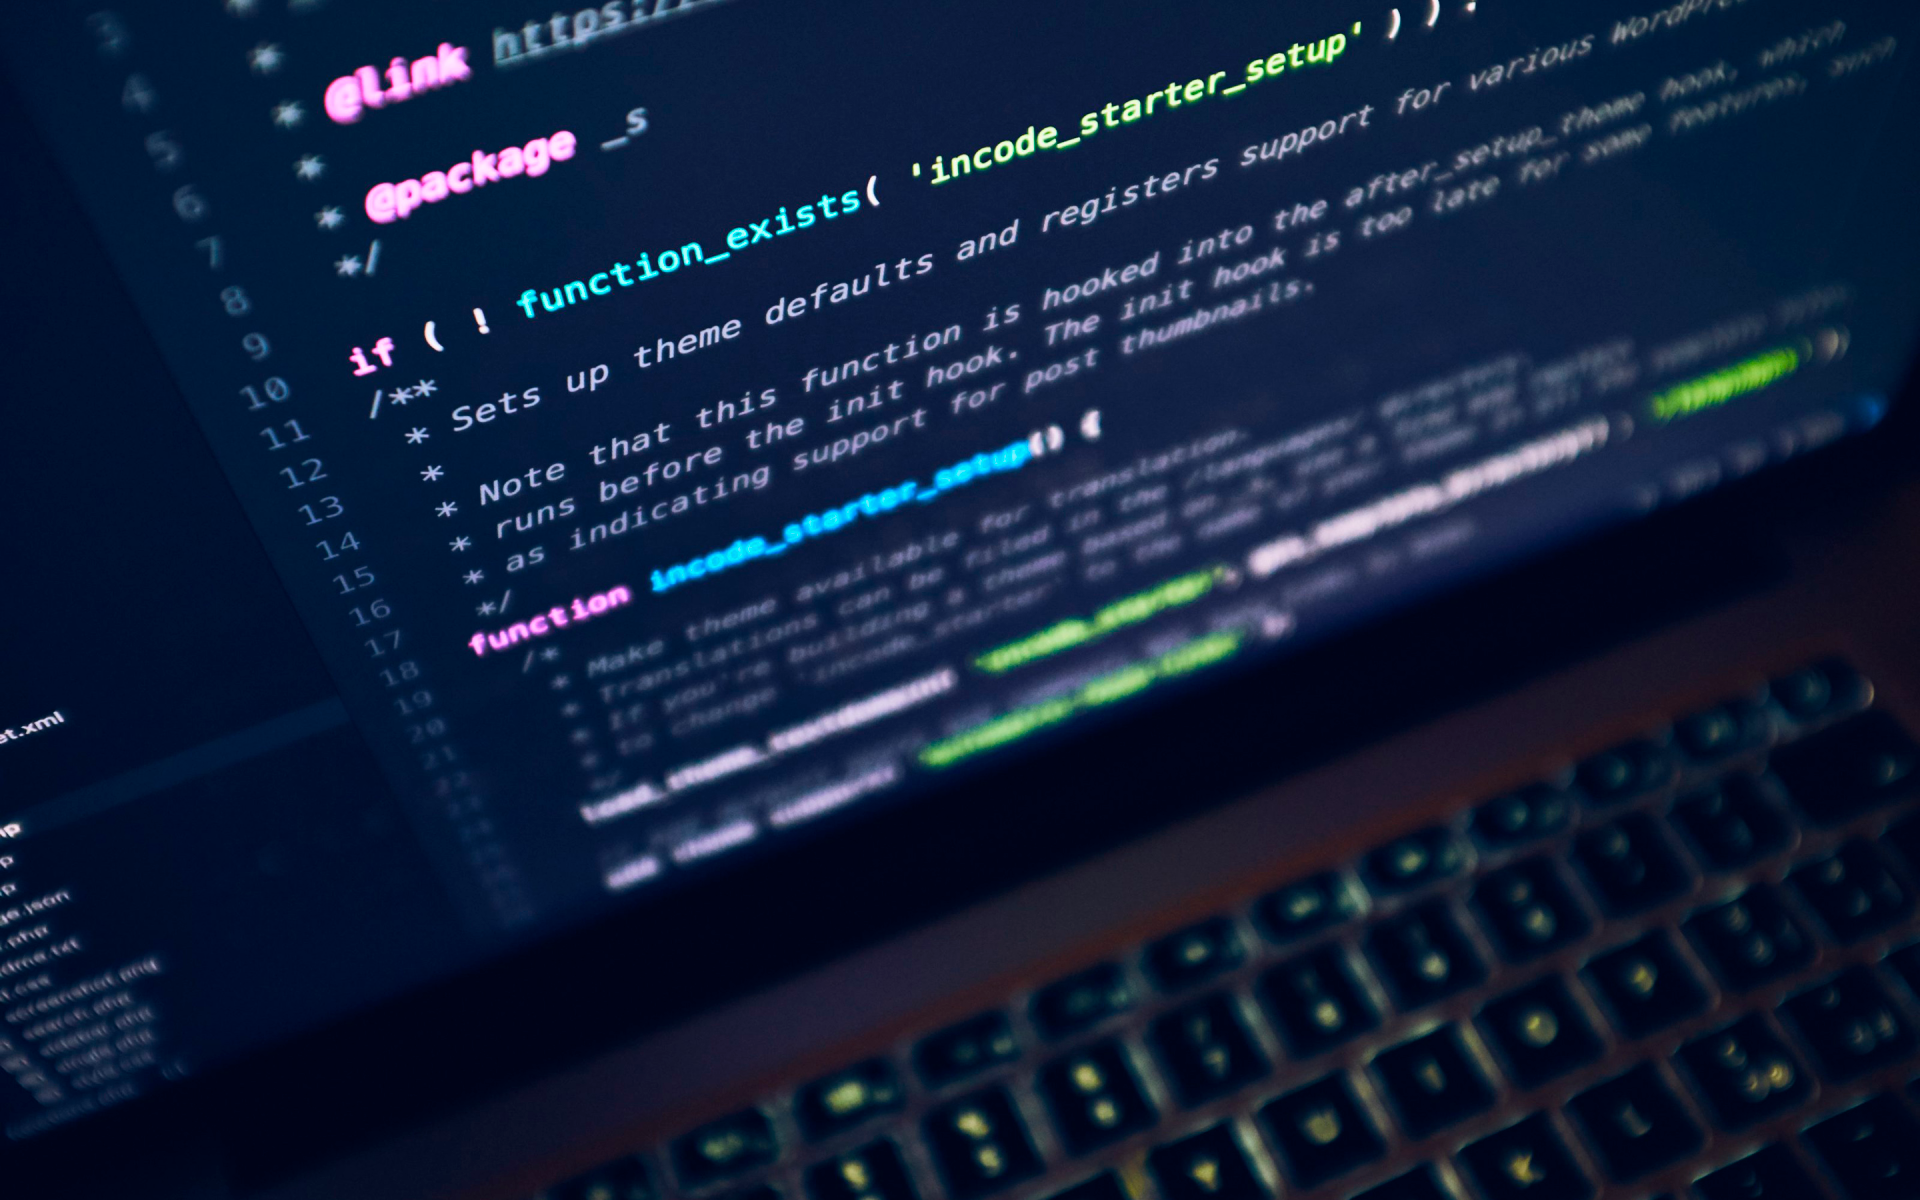
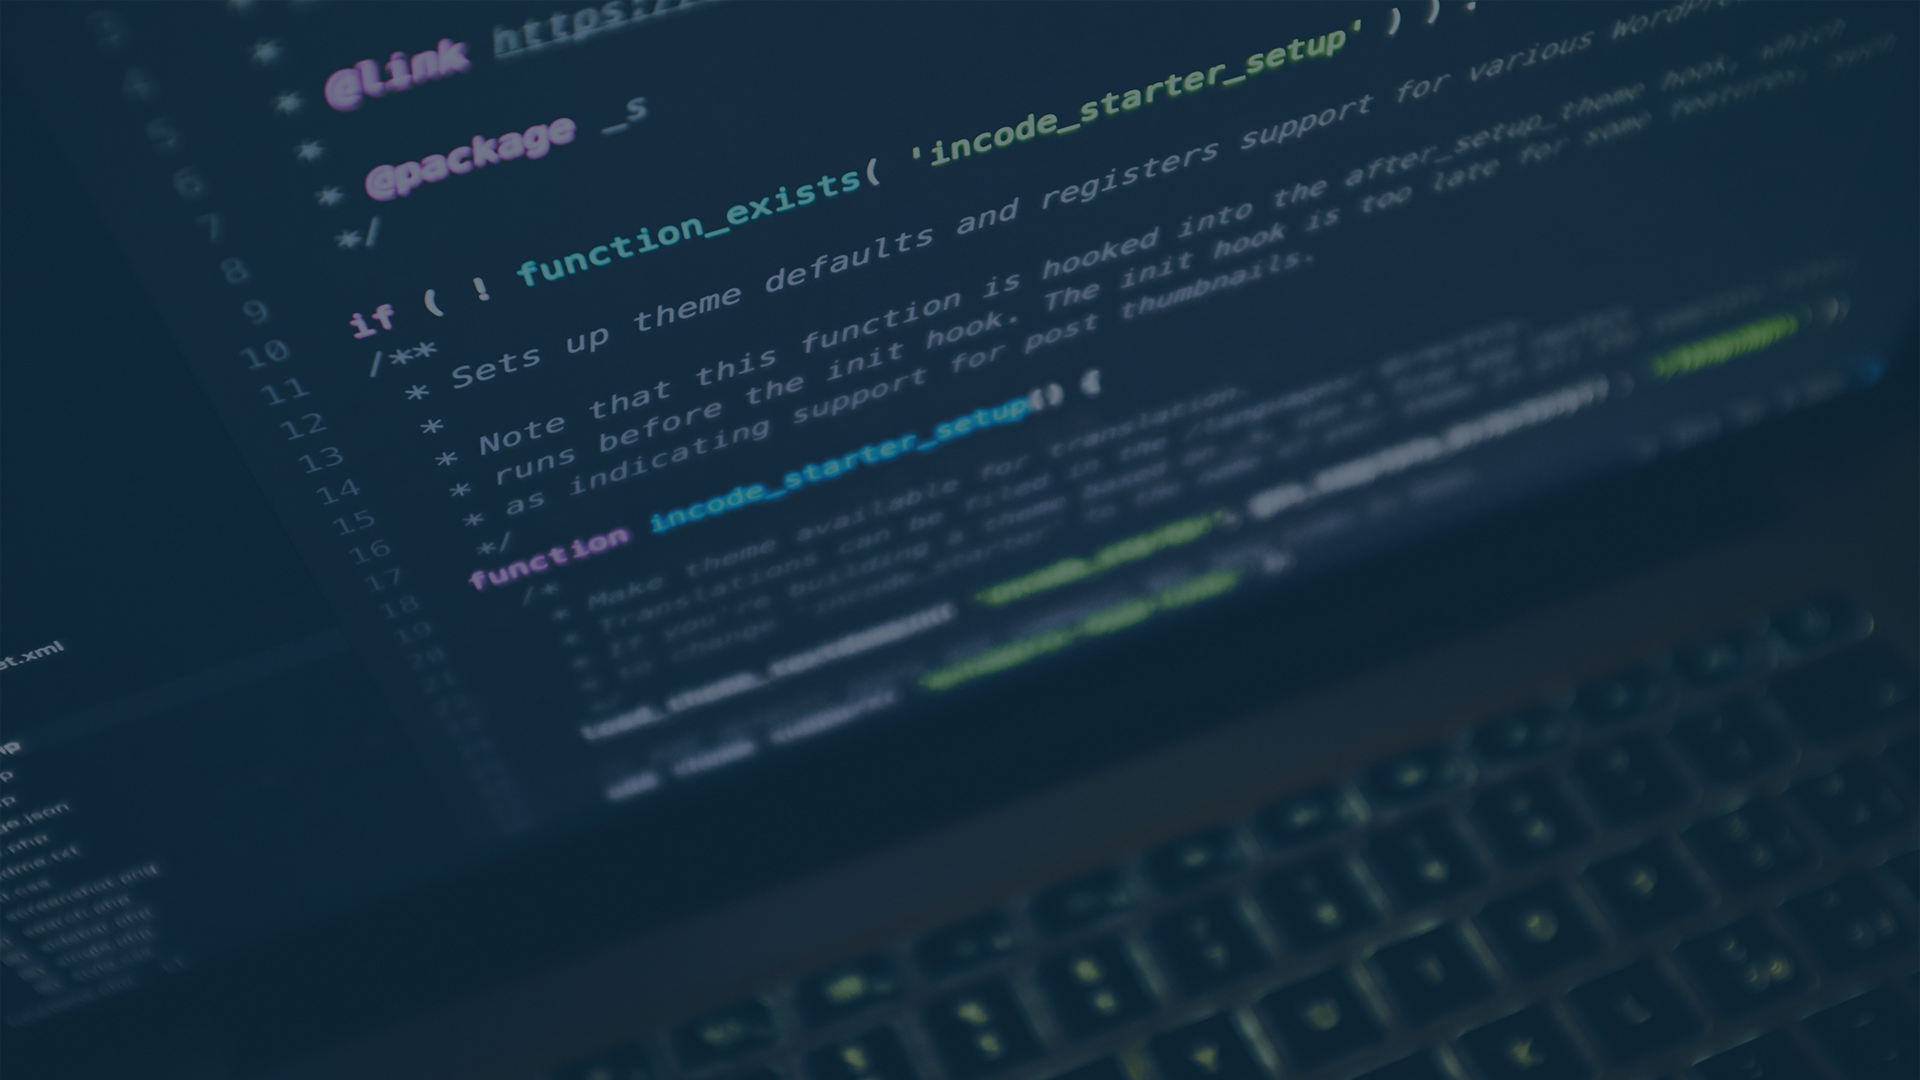
1.0.6

diff --git a/css/style.min.css b/css/style.min.css
@@ -1,1 +1,1 @@
-@font-face{font-family:Montserrat-ExtraBold;src:url(../fonts/Montserrat-ExtraBold.ttf) format('truetype')}@font-face{font-family:Montserrat-Black;src:url(../fonts/Montserrat-Black.ttf) format('truetype')}/*! normalize.css v8.0.1 | MIT License | github.com/necolas/normalize.css */html{line-height:1.15;-webkit-text-size-adjust:100%}body{margin:0}main{display:block}h1{font-size:2em;margin:.67em 0}hr{box-sizing:content-box;height:0;overflow:visible}pre{font-family:monospace,monospace;font-size:1em}a{background-color:transparent}abbr[title]{border-bottom:none;text-decoration:underline;text-decoration:underline dotted}b,strong{font-weight:bolder}code,kbd,samp{font-family:monospace,monospace;font-size:1em}small{font-size:80%}sub,sup{font-size:75%;line-height:0;position:relative;vertical-align:baseline}sub{bottom:-.25em}sup{top:-.5em}img{border-style:none}button,input,optgroup,select,textarea{font-family:inherit;font-size:100%;line-height:1.15;margin:0}button,input{overflow:visible}button,select{text-transform:none}[type=button],[type=reset],[type=submit],button{-webkit-appearance:button}[type=button]::-moz-focus-inner,[type=reset]::-moz-focus-inner,[type=submit]::-moz-focus-inner,button::-moz-focus-inner{border-style:none;padding:0}[type=button]:-moz-focusring,[type=reset]:-moz-focusring,[type=submit]:-moz-focusring,button:-moz-focusring{outline:1px dotted ButtonText}fieldset{padding:.35em .75em .625em}legend{box-sizing:border-box;color:inherit;display:table;max-width:100%;padding:0;white-space:normal}progress{vertical-align:baseline}textarea{overflow:auto}[type=checkbox],[type=radio]{box-sizing:border-box;padding:0}[type=number]::-webkit-inner-spin-button,[type=number]::-webkit-outer-spin-button{height:auto}[type=search]{-webkit-appearance:textfield;outline-offset:-2px}[type=search]::-webkit-search-decoration{-webkit-appearance:none}::-webkit-file-upload-button{-webkit-appearance:button;font:inherit}details{display:block}summary{display:list-item}template{display:none}[hidden]{display:none}*{margin:0;padding:0;box-sizing:border-box}.logo img{max-width:600px;max-height:400px;position:absolute;top:45px;left:25px}#top{display:flex;background-color:#152b3d;background-image:url(../img/programming.png?2006130242);background-repeat:no-repeat;-webkit-background-size:cover;background-size:cover;width:1920px;height:1200px;opacity:.9}.nav{display:flex;flex-direction:row;justify-content:space-between}.link{font-family:Montserrat-ExtraBold,serif;font-size:2.3em;text-decoration:none;position:relative;right:-390px;bottom:-10px;margin:25px;color:#fff}#main_link{text-decoration:underline;text-decoration-color:#924048}.text{position:absolute;left:40px;top:478px}.text img{max-width:600px;max-height:400px}.why-we{position:absolute;top:1040px}.why-we button{color:#e1f1f0;background-color:#a0a9ae;border-radius:40px;position:relative;right:-550px;padding:15px 40px;font-family:Montserrat-Black,sans-serif;font-size:1.9em}#personal__qualities{background-color:#152b3d;background-image:url(../img/business.png?2006130242);background-repeat:no-repeat;-webkit-background-size:cover;background-size:cover;width:1920px;height:1200px;opacity:.9;display:flex;flex-direction:row}.fast{flex:1;justify-content:space-between;position:absolute;left:50px;top:1330px}.exactly{flex:1;justify-content:space-between;position:absolute;left:950px;top:1330px}.exactly h2,.fast h2{color:#5c7079;font-family:Montserrat-ExtraBold,sans-serif;font-size:1.8em}.fast h2:before{content:url(../img/paketa.png?2006130242)}.exactly h2:before{content:url(../img/icons8.png)}.exactly p,.fast p{color:#fff;line-height:40px;font-family:Montserrat-ExtraBold,sans-serif;font-size:1.6em}.flex{display:flex;flex-direction:row}.cheap{flex:1;justify-content:space-between;position:absolute;left:50px;top:1850px}.cheap:before{content:url(../img/cheap.png)}.adaptive h2,.cheap h2{color:#5c7079;font-family:Montserrat-ExtraBold,sans-serif;font-size:1.8em}.adaptive p,.cheap p{color:#fff;line-height:40px;font-family:Montserrat-ExtraBold,sans-serif;font-size:1.6em}.adaptive{flex:1;justify-content:space-between;position:absolute;left:950px;top:1850px}.adaptive:before{content:url(../img/icons8-смартфон.png)}.order{position:absolute;top:2257px;left:45px}.order button{color:#e1f1f0;background-color:#a0a9ae;border-radius:40px;position:relative;right:-550px;padding:10px 35px;font-family:Montserrat-Black,sans-serif;font-size:1.9em}.top{display:none;text-decoration:none;position:fixed;bottom:20px;left:5px;z-index:99;border:none;outline:0;padding:15px 40px;border-radius:10px}@media (min-width:315px) and (max-width:1030px){.link{position:relative;right:-15px;bottom:-55px;font-size:1.4em}.to{position:relative;left:-320px;bottom:-105px;font-size:1.4em}.text img{position:relative;top:-235px;width:300px}.why-we button{position:relative;top:-630px;right:-15px}.cheap h2,.cheap p,.fast h2,.fast p{font-family:Montserrat-Black,sans-serif;font-size:1.2em}.adaptive h2,.adaptive p,.exactly h2,.exactly p{font-family:Montserrat-Black,sans-serif;font-size:1.2em}.exactly{position:absolute;left:420px;bottom:-56px}.adaptive{position:absolute;left:530px;bottom:-56px}.order{position:absolute;left:-540px}}
+@font-face{font-family:Montserrat-ExtraBold;src:url(../fonts/Montserrat-ExtraBold.ttf) format('truetype')}@font-face{font-family:Montserrat-Black;src:url(../fonts/Montserrat-Black.ttf) format('truetype')}/*! normalize.css v8.0.1 | MIT License | github.com/necolas/normalize.css */html{line-height:1.15;-webkit-text-size-adjust:100%}body{margin:0}main{display:block}h1{font-size:2em;margin:.67em 0}hr{box-sizing:content-box;height:0;overflow:visible}pre{font-family:monospace,monospace;font-size:1em}a{background-color:transparent}abbr[title]{border-bottom:none;text-decoration:underline;text-decoration:underline dotted}b,strong{font-weight:bolder}code,kbd,samp{font-family:monospace,monospace;font-size:1em}small{font-size:80%}sub,sup{font-size:75%;line-height:0;position:relative;vertical-align:baseline}sub{bottom:-.25em}sup{top:-.5em}img{border-style:none}button,input,optgroup,select,textarea{font-family:inherit;font-size:100%;line-height:1.15;margin:0}button,input{overflow:visible}button,select{text-transform:none}[type=button],[type=reset],[type=submit],button{-webkit-appearance:button}[type=button]::-moz-focus-inner,[type=reset]::-moz-focus-inner,[type=submit]::-moz-focus-inner,button::-moz-focus-inner{border-style:none;padding:0}[type=button]:-moz-focusring,[type=reset]:-moz-focusring,[type=submit]:-moz-focusring,button:-moz-focusring{outline:1px dotted ButtonText}fieldset{padding:.35em .75em .625em}legend{box-sizing:border-box;color:inherit;display:table;max-width:100%;padding:0;white-space:normal}progress{vertical-align:baseline}textarea{overflow:auto}[type=checkbox],[type=radio]{box-sizing:border-box;padding:0}[type=number]::-webkit-inner-spin-button,[type=number]::-webkit-outer-spin-button{height:auto}[type=search]{-webkit-appearance:textfield;outline-offset:-2px}[type=search]::-webkit-search-decoration{-webkit-appearance:none}::-webkit-file-upload-button{-webkit-appearance:button;font:inherit}details{display:block}summary{display:list-item}template{display:none}[hidden]{display:none}*{margin:0;padding:0;box-sizing:border-box}.logo img{max-width:600px;max-height:400px;position:absolute;top:45px;left:25px}#top{display:flex;background-color:#152b3d;background-image:url(../img/programming.png?2006131643);background-repeat:no-repeat;-webkit-background-size:cover;background-size:cover;width:1920px;height:1200px}.nav{display:flex;flex-direction:row;justify-content:space-between}.link{font-family:Montserrat-ExtraBold,serif;font-size:2.3em;text-decoration:none;position:relative;right:-390px;bottom:-10px;margin:25px;color:#fff}#main_link{text-decoration:underline;text-decoration-color:#924048}.text{position:absolute;left:40px;top:478px}.text img{max-width:600px;max-height:400px}.why-we{position:absolute;top:1040px}.why-we button{color:#e1f1f0;background-color:#a0a9ae;border-radius:40px;position:relative;right:-550px;padding:15px 40px;font-family:Montserrat-Black,sans-serif;font-size:1.9em}#personal__qualities{background-color:#152b3d;background-image:url(../img/business.png?2006131643);background-repeat:no-repeat;-webkit-background-size:cover;background-size:cover;width:1920px;height:1200px;display:flex;flex-direction:row}.fast{flex:1;justify-content:space-between;position:absolute;left:50px;top:1330px}.exactly{flex:1;justify-content:space-between;position:absolute;left:950px;top:1330px}.exactly h2,.fast h2{color:#5c7079;font-family:Montserrat-ExtraBold,sans-serif;font-size:1.8em}.fast h2:before{content:url(../img/paketa.png?2006131643)}.exactly h2:before{content:url(../img/icons8.png)}.exactly p,.fast p{color:#fff;line-height:40px;font-family:Montserrat-ExtraBold,sans-serif;font-size:1.6em}.flex{display:flex;flex-direction:row}.cheap{flex:1;justify-content:space-between;position:absolute;left:50px;top:1850px}.cheap:before{content:url(../img/cheap.png)}.adaptive h2,.cheap h2{color:#5c7079;font-family:Montserrat-ExtraBold,sans-serif;font-size:1.8em}.adaptive p,.cheap p{color:#fff;line-height:40px;font-family:Montserrat-ExtraBold,sans-serif;font-size:1.6em}.adaptive{flex:1;justify-content:space-between;position:absolute;left:950px;top:1850px}.adaptive:before{content:url(../img/icons8-смартфон.png)}.order{position:absolute;top:2257px;left:45px}.order button{color:#e1f1f0;background-color:#a0a9ae;border-radius:40px;position:relative;right:-550px;padding:10px 35px;font-family:Montserrat-Black,sans-serif;font-size:1.9em}.top{display:none;text-decoration:none;position:fixed;bottom:20px;left:5px;z-index:99;border:none;outline:0;padding:15px 40px;border-radius:10px}@media (min-width:315px) and (max-width:1030px){.link{position:relative;right:-15px;bottom:-55px;font-size:1.4em}.to{position:relative;left:-320px;bottom:-105px;font-size:1.4em}.text img{position:relative;top:-235px;width:300px}.why-we button{position:relative;top:-630px;right:-15px}.cheap h2,.cheap p,.fast h2,.fast p{font-family:Montserrat-Black,sans-serif;font-size:1.2em}.adaptive h2,.adaptive p,.exactly h2,.exactly p{font-family:Montserrat-Black,sans-serif;font-size:1.2em}.exactly{position:absolute;left:420px;bottom:-56px}.adaptive{position:absolute;left:530px;bottom:-56px}.order{position:absolute;left:-540px}}

diff --git a/index.html b/index.html
@@ -5,7 +5,7 @@
     <meta name="viewport"
           content="width=device-width, initial-scale=1.0">
     <link rel="stylesheet" href="css/style.min.css">
-    <link rel="icon" href="img/webhome_.png">
+    <link rel="icon" href="img/favicon.ico">
     <script src="https://cdnjs.cloudflare.com/ajax/libs/jquery/3.4.1/jquery.min.js"></script>
     <title>WebHome</title>
 </head>
@@ -21,7 +21,7 @@
         <a href="#" class="link to">Оформить</a>
     </nav>
     <div class="text">
-        <img src="img/write.png" alt="Мы напишем">
+    <img src="img/write.png" alt="Мы напишем"><p>/</p>
     </div>
     <div class="why-we">
         <a href="#personal__qualities">
@@ -57,10 +57,9 @@
             <button>Заказать</button>
         </a>
     </div>
-
-</div>
-<div class="top">
-    <a href="#top"><img src="img/top.png" alt="top"></a>
+    <div class="top">
+        <a href="#top"><img src="img/top.png" alt="top"></a>
+    </div>
 </div>
 
 <!--<script type="text/javascript" src="jquery-3.4.1.min.js"></script>-->
